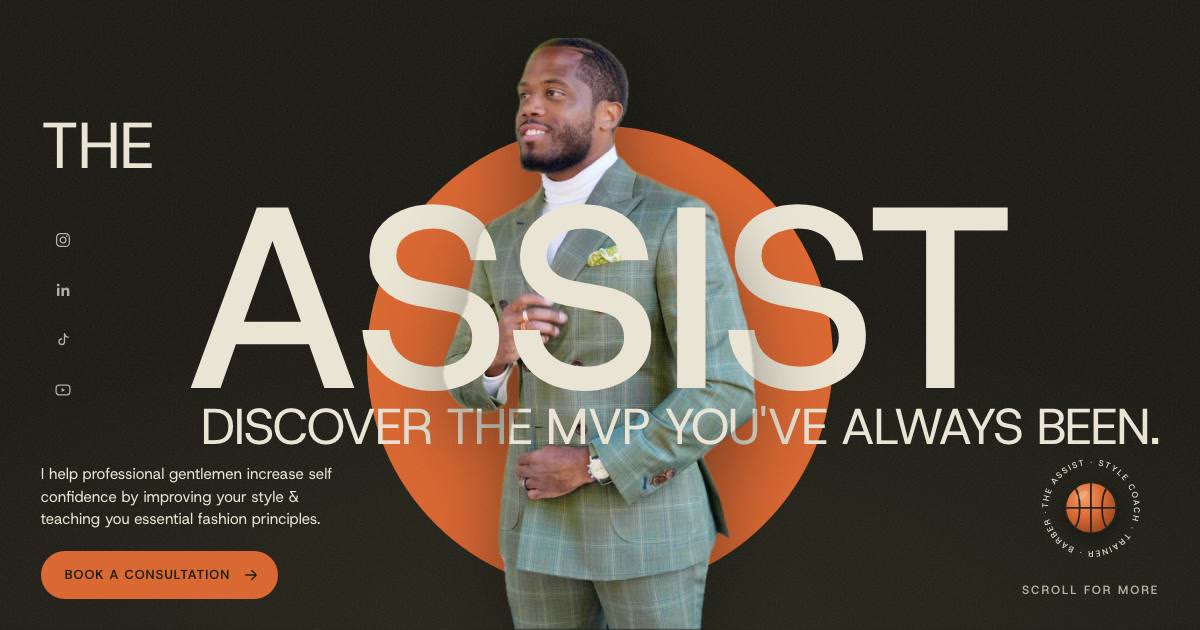
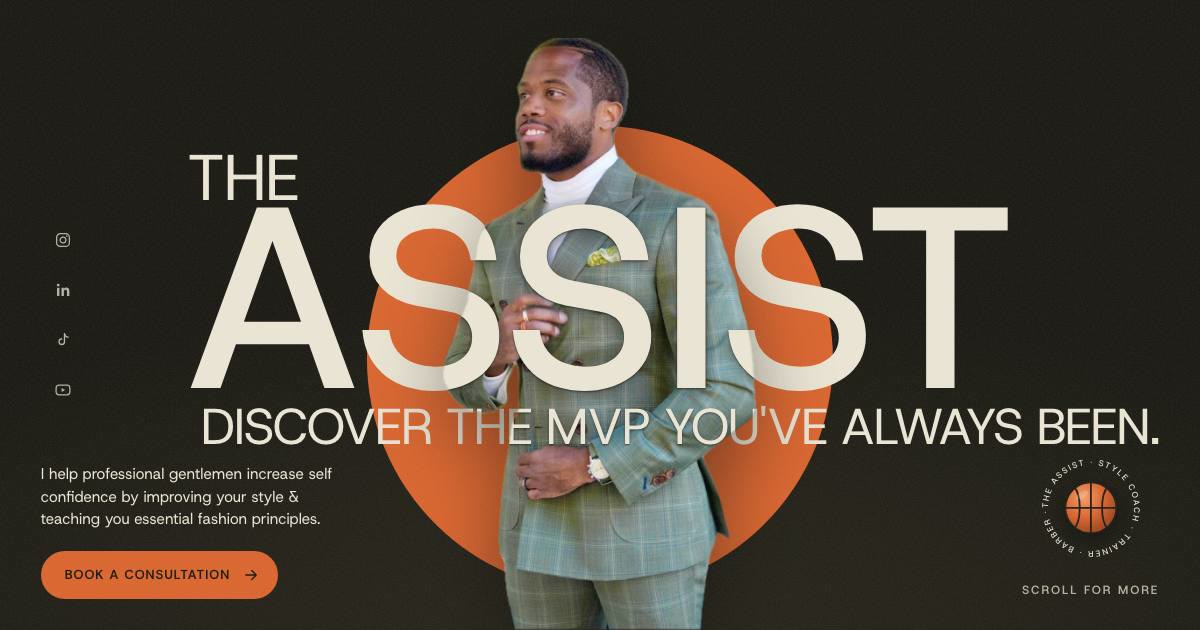
Hero: THE sits just above the A, and the promise reads solid over the suit
THE now lives inside the ASSIST line, so it always lands right above
the A without touching it at every width. Where the headline crosses
Marcus, a soft night shadow keeps the thin cream letters from blending
into the light plaid. Share image regenerated.

diff --git a/assets/css/site.css b/assets/css/site.css
@@ -67,10 +67,11 @@ body::after{content:"";position:fixed;inset:-50%;pointer-events:none;z-index:150
 .hero__disc{position:absolute;left:50%;bottom:6%;width:min(54vw,74svh);aspect-ratio:1;border-radius:50%;background:var(--orange);transform:translateX(-50%);z-index:1}
 .hero__type{position:absolute;inset:0;z-index:2;margin:0;pointer-events:none;text-transform:uppercase;font-weight:500;letter-spacing:-.045em;color:var(--bone)}
 .hero__type span{position:absolute;display:block;white-space:nowrap;line-height:.8}
-.t-a{left:var(--pad);top:19%;font-size:clamp(34px,5.4vw,96px);font-weight:400}
+/* THE rides inside ASSIST so it always sits just above the A, whatever the width */
+.t-a{left:.02em;bottom:96%;font-size:.25em;font-weight:400;text-shadow:none}
 .t-b{left:50%;top:31%;transform:translateX(-50%);font-size:clamp(84px,21.5vw,380px)}
 .t-c{right:var(--pad);top:calc(31% + clamp(70px,17.6vw,312px));font-size:clamp(28px,4.2vw,74px);font-weight:400;letter-spacing:-.03em}
-.hero__type--line{z-index:4;color:var(--bone);-webkit-mask:url(../img/marcus-sage-cutout.webp) 50% 100%/auto min(94%,1000px) no-repeat;mask:url(../img/marcus-sage-cutout.webp) 50% 100%/auto min(94%,1000px) no-repeat}
+.hero__type--line{z-index:4;color:var(--bone);text-shadow:0 1px 2px rgba(22,21,15,.7),0 3px 18px rgba(22,21,15,.6);-webkit-mask:url(../img/marcus-sage-cutout.webp) 50% 100%/auto min(94%,1000px) no-repeat;mask:url(../img/marcus-sage-cutout.webp) 50% 100%/auto min(94%,1000px) no-repeat}
 .hero__marcus{position:absolute;left:50%;bottom:0;height:min(94%,1000px);width:auto;max-width:none;transform:translateX(-50%);z-index:3;filter:drop-shadow(0 30px 40px rgba(0,0,0,.45))}
 .hero__lede{position:absolute;left:var(--pad);bottom:clamp(28px,5svh,56px);z-index:5;max-width:min(30ch,26vw);display:flex;flex-direction:column;align-items:flex-start;gap:20px}
 .hero__lede p{margin:0;font-size:clamp(15px,1.15vw,18px);line-height:1.5;color:var(--bone)}
@@ -250,7 +251,7 @@ footer{background:var(--band);padding:clamp(48px,6vw,80px) 0 30px}
   .hero{height:auto;min-height:0;max-height:none;padding-top:84px;display:flex;flex-direction:column}
   .hero__stage{position:relative;height:min(118vw,620px)}
   .hero__disc{width:86vw;bottom:4%}
-  .t-a{top:2%;font-size:9.4vw}
+  .t-a{font-size:.4em}
   .t-b{top:33%;font-size:19vw}
   .t-c{top:calc(33% + 16vw);right:var(--pad);font-size:4.6vw}
   .hero__type--line{-webkit-mask-size:auto 86%;mask-size:auto 86%}

diff --git a/index.html b/index.html
@@ -84,14 +84,12 @@
     <div class="hero__stage">
       <div class="hero__disc" aria-hidden="true"></div>
       <h1 class="hero__type" id="hero-title" aria-label="The Assist: discover the MVP you've always been">
-        <span class="t-a" aria-hidden="true">The</span>
-        <span class="t-b" aria-hidden="true">Assist</span>
+        <span class="t-b" aria-hidden="true">Assist<span class="t-a">The</span></span>
         <span class="t-c" aria-hidden="true">Discover the MVP you've always been.</span>
       </h1>
       <img class="hero__marcus" src="assets/img/marcus-sage-cutout.webp" decoding="async" width="744" height="1351" alt="Marcus Ervin in a sage double-breasted check suit and white turtleneck" fetchpriority="high">
       <p class="hero__type hero__type--line" aria-hidden="true">
-        <span class="t-a">The</span>
-        <span class="t-b">Assist</span>
+        <span class="t-b">Assist<span class="t-a">The</span></span>
         <span class="t-c">Discover the MVP you've always been.</span>
       </p>
       <ul class="hero__social" aria-label="Follow Marcus">
